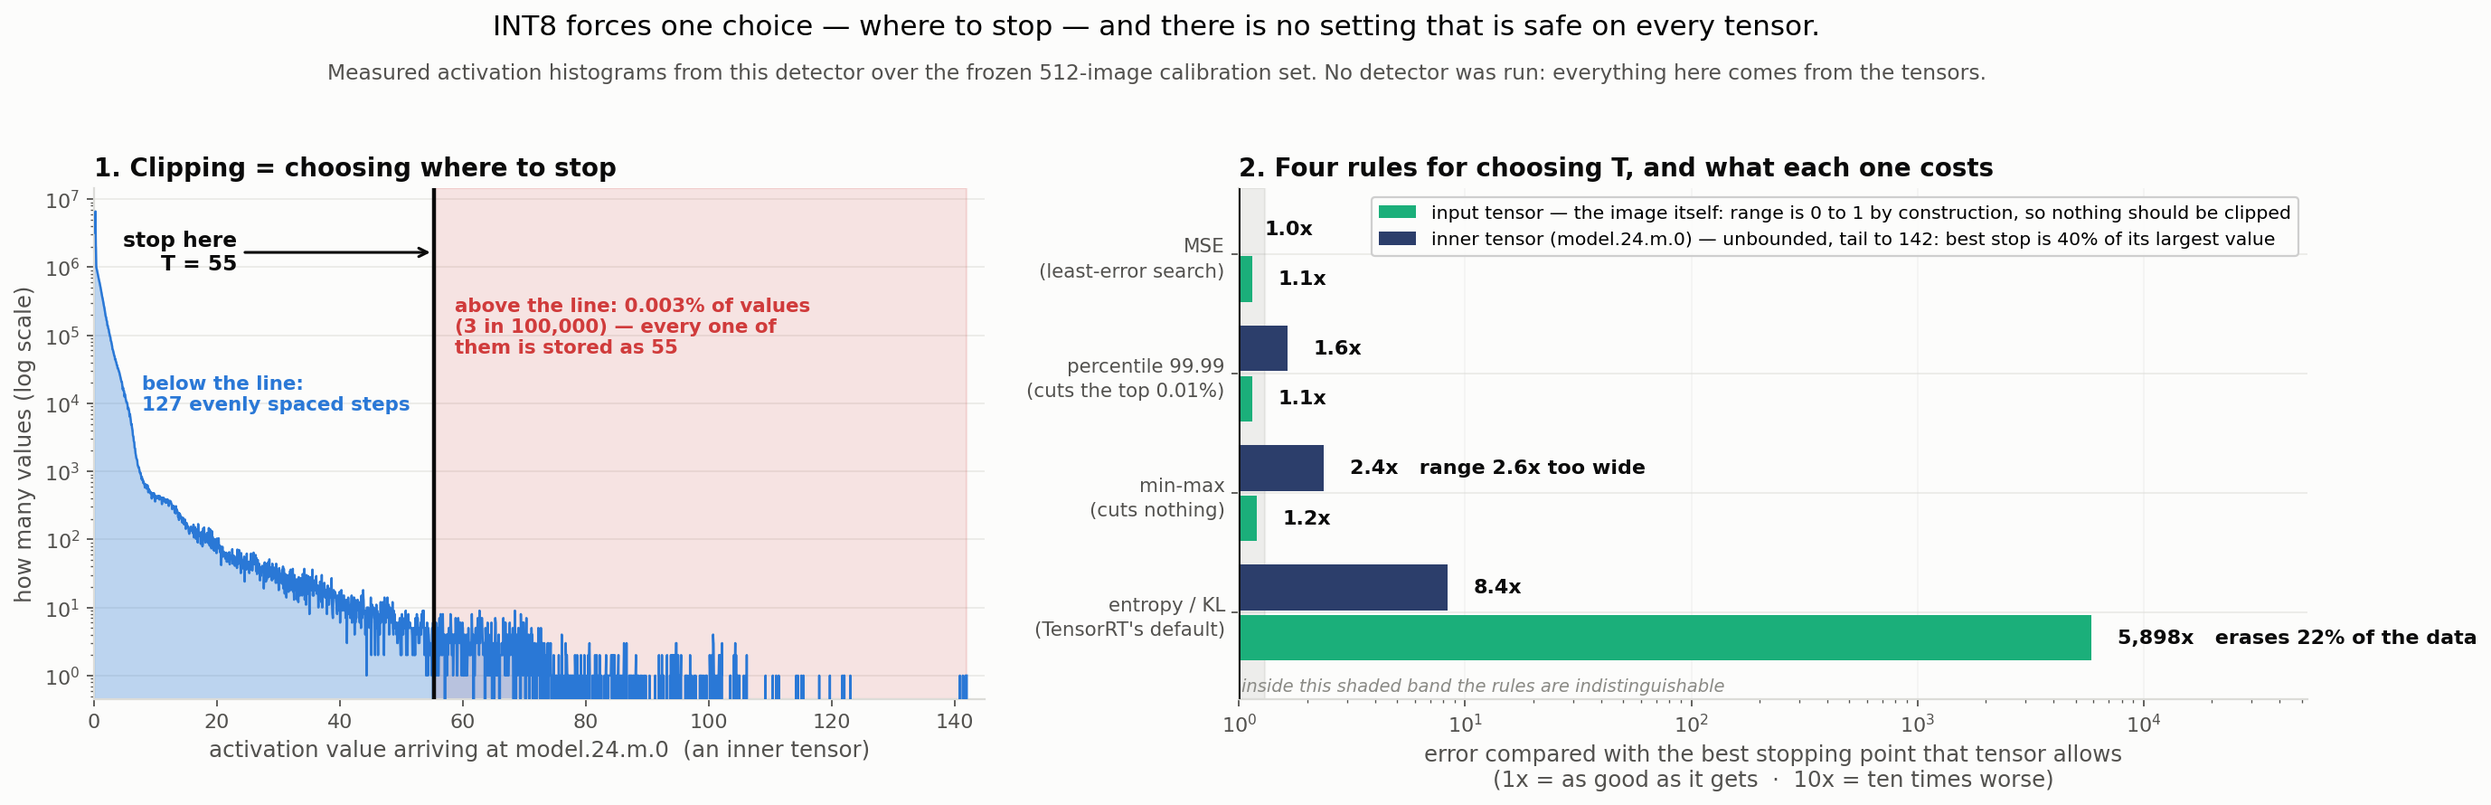
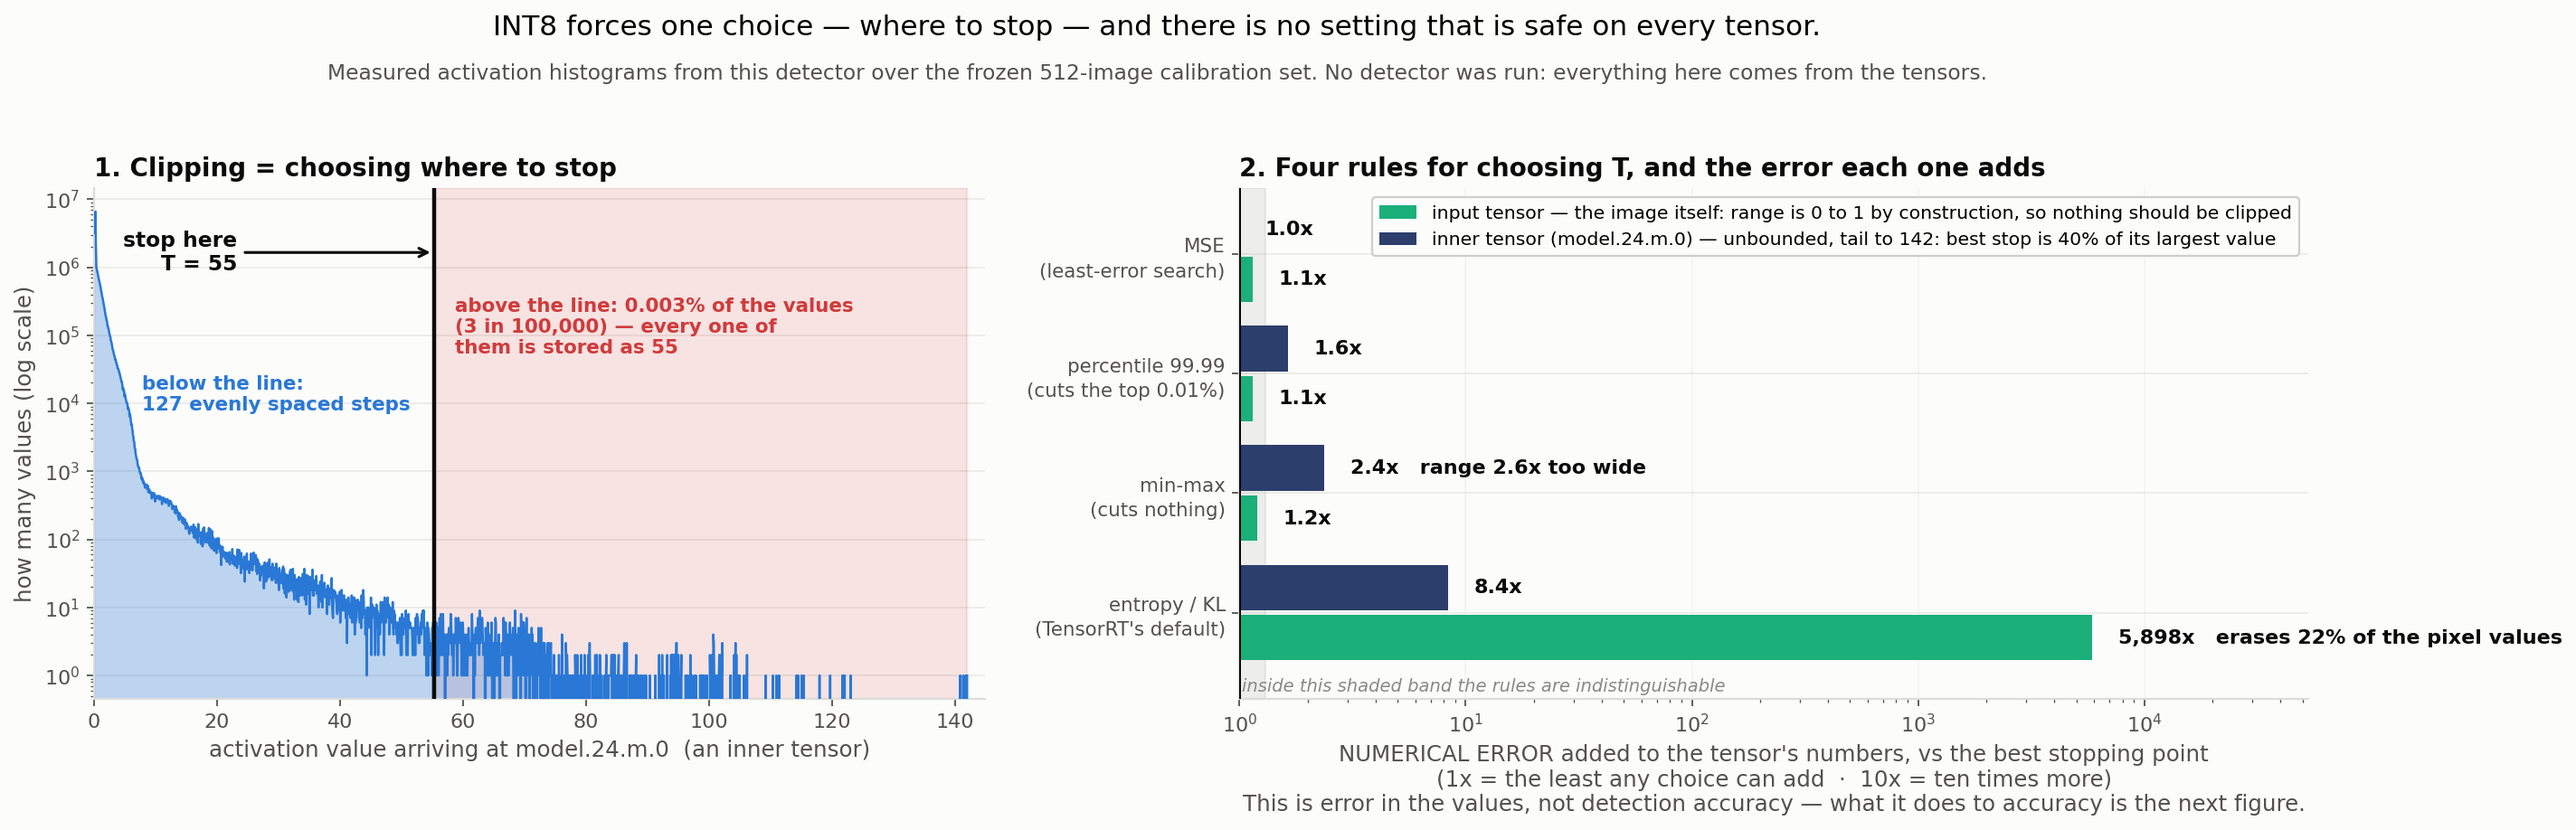
XP7-E2: stop using "lost" for two different quantities
Raised in review, and fair: the page said "lost" for both the values a rule
erases and the accuracy quantizing costs, so the two figures looked like they
shared an axis. They do not.

  clipping figure -> NUMERICAL ERROR in the tensor's numbers (the cause)
  results figure  -> DETECTION ACCURACY, mAP50            (the effect)

Both axes now name their quantity in full, the clipping figure's x-label says
outright that it is not accuracy and points at the next figure, and the
results figure's subtitle says the drop is accuracy lost, not values lost.

A count of values is now always called that: "erases 22% of the pixel values".

README gets the same separation, plus a note that the two are cause and
effect - entropy adding 5,898x the numerical error on the input tensor is what
produces its 34% accuracy row.

Changed region(s): [[0.0, 0.182, 0.9989, 1.0], [0.1249, 0.0, 0.7804, 0.1213]]

diff --git a/analysis/make_figures.py b/analysis/make_figures.py
@@ -2913,8 +2913,8 @@ def fig_xp07e2(records) -> Path | None:
                         "calibration rules, 512 images each. Right: the winner, on nested "
                         f"subsets.\nBoth scored on the {d['n_val_images']}-image validation "
                         f"split.\n100% = the unquantized FP16 model ({base_map:.4f} mAP50 "
-                        f"overall, {base_tiny:.4f} on tiny plumes); the drop below 100 is what "
-                        "quantizing costs.", y=0.995)
+                        f"overall, {base_tiny:.4f} on tiny plumes); the drop below 100 is "
+                        "DETECTION ACCURACY lost to quantizing, not values lost.", y=0.995)
 
     # ---- panel 1: what each method costs --------------------------------
     ax = fig.add_subplot(gs[0, 0])
@@ -2925,7 +2925,7 @@ def fig_xp07e2(records) -> Path | None:
     ax.bar(x + 0.20, tin, width=0.38, color=style.ORANGE, zorder=3,
            label="tiny plumes (<0.1%)")
     ax.axhline(100, color=style.INK_2, ls="--", lw=1.1, zorder=4)
-    ax.text(-0.45, 100.8, "unquantized FP16 — nothing lost", ha="left",
+    ax.text(-0.45, 100.8, "unquantized FP16 — full accuracy", ha="left",
             va="bottom", fontsize=8.4, color=style.INK_2, style="italic")
     for i, (a, t) in enumerate(zip(agg, tin)):
         ax.text(i - 0.20, a + 2.5, f"{a:.0f}", ha="center", fontsize=8.6,
@@ -2935,7 +2935,7 @@ def fig_xp07e2(records) -> Path | None:
     ax.set_xticks(x)
     ax.set_xticklabels([nice[m] for m in order], fontsize=8.0)
     ax.set_ylim(0, 118)
-    ax.set_ylabel("mAP50 kept, as % of the unquantized model\n(100% = nothing lost)")
+    ax.set_ylabel("DETECTION ACCURACY kept\n(mAP50, as % of the unquantized FP16 model)")
     ax.set_title("1. One setting, 62 points of mAP50", fontsize=12, loc="left")
     ax.set_ylim(0, 122)
     # Every arm ships the same bytes, which is what makes the spread free.
@@ -2967,7 +2967,7 @@ def fig_xp07e2(records) -> Path | None:
         ax.get_xaxis().set_major_formatter(plt.matplotlib.ticker.ScalarFormatter())
         ax.set_ylim(80, 108)
     ax.set_xlabel("calibration images (nested subsets)")
-    ax.set_ylabel("mAP50 kept, as % of the unquantized model\n(100% = nothing lost)")
+    ax.set_ylabel("DETECTION ACCURACY kept\n(mAP50, as % of the unquantized FP16 model)")
     ax.set_title("2. …and 32 images is enough", fontsize=12, loc="left")
     ax.legend(loc="upper center", bbox_to_anchor=(0.5, -0.13), ncol=2,
               fontsize=9, frameon=False)
@@ -3555,7 +3555,7 @@ def fig_xp07_clipping(records) -> Path | None:
                 ha="right", va="center", fontsize=10.5, color=style.INK, fontweight="bold",
                 arrowprops=dict(arrowstyle="->", color=style.INK, lw=1.4))
     ax.text(T * 1.06, top * 0.02,
-            f"above the line: {h[c > T].sum() / tot * 100:.3f}% of values\n"
+            f"above the line: {h[c > T].sum() / tot * 100:.3f}% of the values\n"
             f"(3 in 100,000) — every one of\nthem is stored as {T:.0f}",
             fontsize=9.6, color=style.RED, fontweight="bold", va="center")
     ax.text(T * 0.14, top * 0.0012, "below the line:\n127 evenly spaced steps", ha="left",
@@ -3576,7 +3576,7 @@ def fig_xp07_clipping(records) -> Path | None:
         best[name] = (E.min(), Ts[int(E.argmin())] / meta["observed_max"] * 100)
         ratio[name] = {k: err(c, h, meta["clips"][k]) / E.min() for k in ORDER}
 
-    CALL = {(INPUT, "entropy"): "   erases 22% of the data",
+    CALL = {(INPUT, "entropy"): "   erases 22% of the pixel values",
             (INNER, "minmax"): "   range 2.6x too wide"}
     ys = np.arange(len(ORDER))
     for i, name in enumerate((INPUT, INNER)):
@@ -3602,9 +3602,11 @@ def fig_xp07_clipping(records) -> Path | None:
     bx.set_yticks(ys)
     bx.set_yticklabels([f"{nice[k]}\n{RULE[k]}" for k in ORDER], fontsize=9.6, linespacing=1.45)
     bx.set_ylim(len(ORDER) - 0.28, -0.55)
-    bx.set_xlabel("error compared with the best stopping point that tensor allows\n"
-                  "(1x = as good as it gets  \u00b7  10x = ten times worse)")
-    bx.set_title("2. Four rules for choosing T, and what each one costs",
+    bx.set_xlabel("NUMERICAL ERROR added to the tensor's numbers, vs the best stopping point\n"
+                  "(1x = the least any choice can add  \u00b7  10x = ten times more)\n"
+                  "This is error in the values, not detection accuracy — what it does to "
+                  "accuracy is the next figure.")
+    bx.set_title("2. Four rules for choosing T, and the error each one adds",
                  fontsize=12.5, loc="left")
     bx.legend(loc="upper right", fontsize=9.2, frameon=True, framealpha=0.95)
     style.tidy(bx)

diff --git a/experiments/xp07_quant/README.md b/experiments/xp07_quant/README.md
@@ -170,7 +170,8 @@ That asymmetry is XP10's unexplained fingerprint: mAP50 0.2554, tiny plumes −9
 ![Where INT8 damage lives](../../results/figures/xp07e1_sensitivity.png)
 
 *Both panels plot the same 60 experiments — one point or bar per convolution, that layer quantized
-alone with the other 59 left in FP16 — and both y-axes are **% of the unquantized model kept**.
+alone with the other 59 left in FP16 — and both y-axes are **detection accuracy kept** (mAP50 as a % of the unquantized
+model), never a count of values.
 **Left**, scored on aggregate mAP50: the whole panel spans 3.1%, and only the three head
 convolutions move at all. **Right**, the identical runs scored on plumes under 0.1% of the frame:
 the axis now needs 0–120%. Same perturbations, same models; the slice is what separates them.*
@@ -310,6 +311,13 @@ Two things to take from it:
 - **Discarding a little more destroys everything.** On the input, entropy clips **22%** of all
   values and lands **5,898x** off the best possible choice.
 
+> **Careful: two different measurements, two different units.** The ratios above are
+> **numerical error in the tensor's numbers** — how far the stored values drift from the real
+> ones. The results table further down is **detection accuracy** (mAP50). The first is the cause,
+> the second the effect: it is entropy adding 5,898x the numerical error on the input tensor that
+> produces its 34% accuracy row. Neither is a count of weights or values; where this page does
+> mean a count of values, it says so ("clips 22% of the pixel values").
+
 MSE's 1.0x is partly by construction — the yardstick is squared error, which is MSE's own
 objective. The independent check is the measured mAP50 table below, where percentile 99.99 wins.
 
@@ -333,7 +341,8 @@ out of the tensors alone, so it is a property of this network's activations and 
 the exact number XP10 decoded from TensorRT's own calibration cache (0.0035237 × 127). The
 simulation predicts the engine rather than approximating it.
 
-**Results** — unquantized: **0.9494** mAP50, **0.3363** tiny, **14.05 MB**.
+**Results** — unquantized: **0.9494** mAP50, **0.3363** tiny, **14.05 MB**. Every "kept" column
+below is **detection accuracy** as a percentage of those two baselines.
 
 ![Calibration decides almost everything at INT8](../../results/figures/xp07e2_calibration.png)
 
